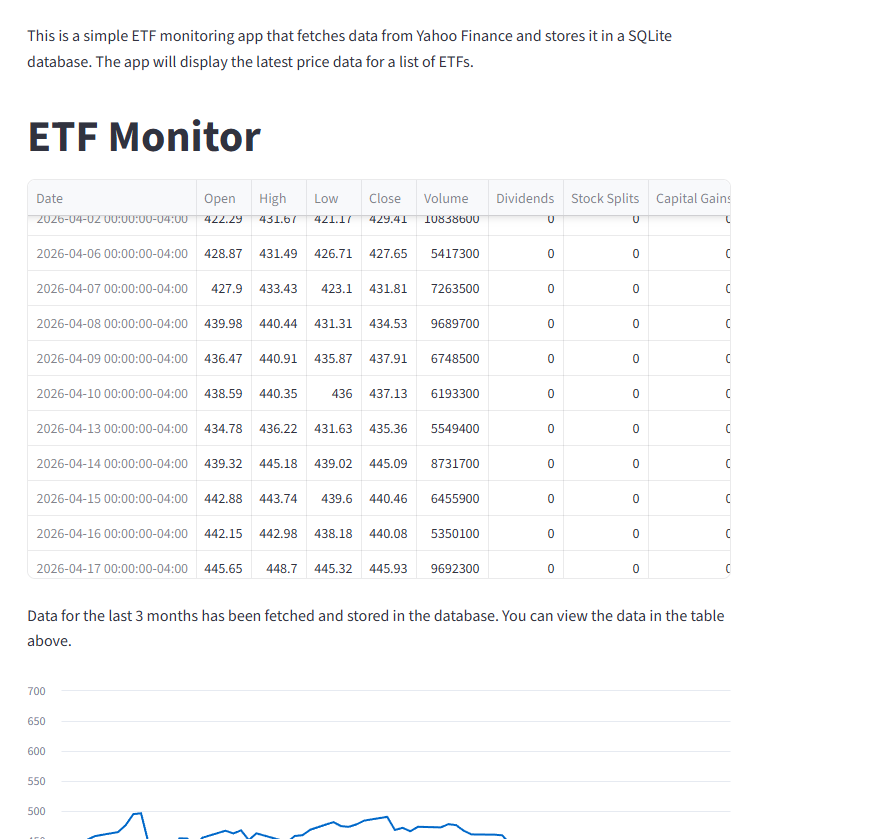
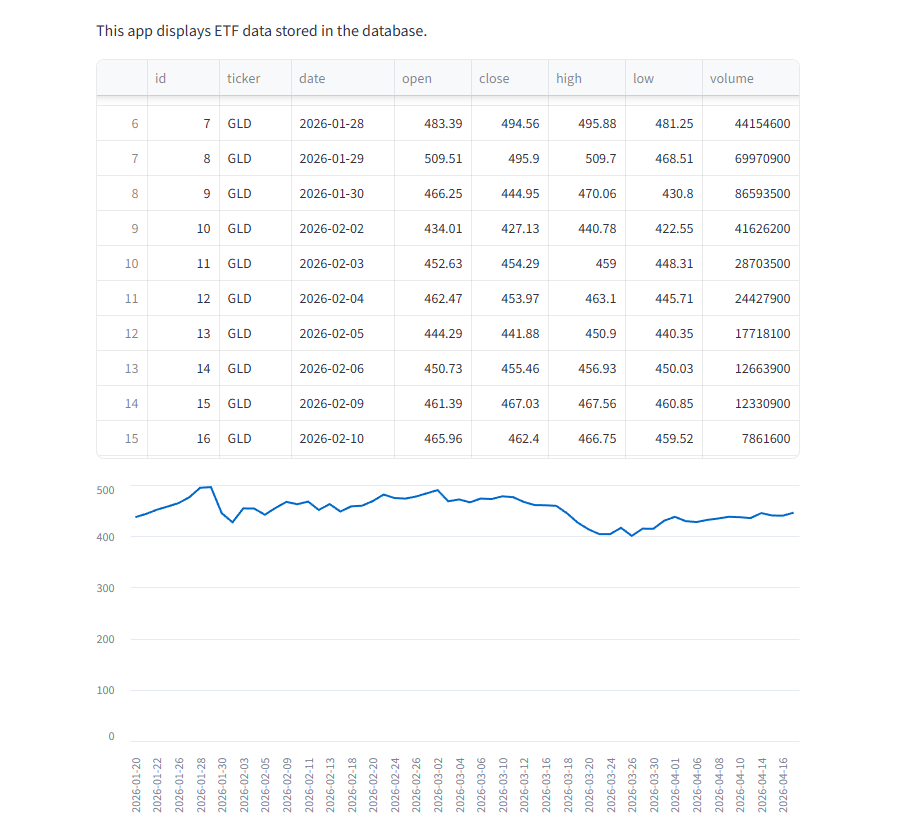
Refactor main.py to remove Streamlit components and streamline data insertion; add app.py for displaying ETF data in a web app

diff --git a/main.py b/main.py
@@ -1,8 +1,6 @@
 import yfinance as yf
 import sqlite3
-import streamlit as st
-st.write("This is a simple ETF monitoring app that fetches data from Yahoo Finance and stores it in a SQLite database. The app will display the latest price data for a list of ETFs.")
-st.title("ETF Monitor")
+
 conn = sqlite3.connect("etf_monitor.db")
 cursor = conn.cursor()
 
@@ -23,9 +21,3 @@ for date, row in price_data.iterrows():
 conn.commit()
 conn.close()
 print("Data inserted into database!")
-
-
-st.dataframe(price_data)
-st.write("Data for the last 3 months has been fetched and stored in the database. You can view the data in the table above.")
-st.line_chart(price_data["Close"])
-st.write("The line chart above shows the closing price of the ETF over the last 3 months.")

diff --git a/app.py b/app.py
@@ -1,0 +1,13 @@
+import streamlit as st
+import sqlite3
+import pandas as pd
+
+st.title("ETF Monitor")
+st.write("This app displays ETF data stored in the database.")
+
+conn = sqlite3.connect("etf_monitor.db")
+df = pd.read_sql_query("SELECT * FROM daily_prices", conn)
+conn.close()
+
+st.dataframe(df)
+st.line_chart(df.set_index("date")["close"])

diff --git a/README.md b/README.md
@@ -1,3 +1,4 @@
 # ETF-Data-Quality-Monitor
-![alt text](image.png)
-![alt text](image-1.png)
+![
+](image.png)
+
